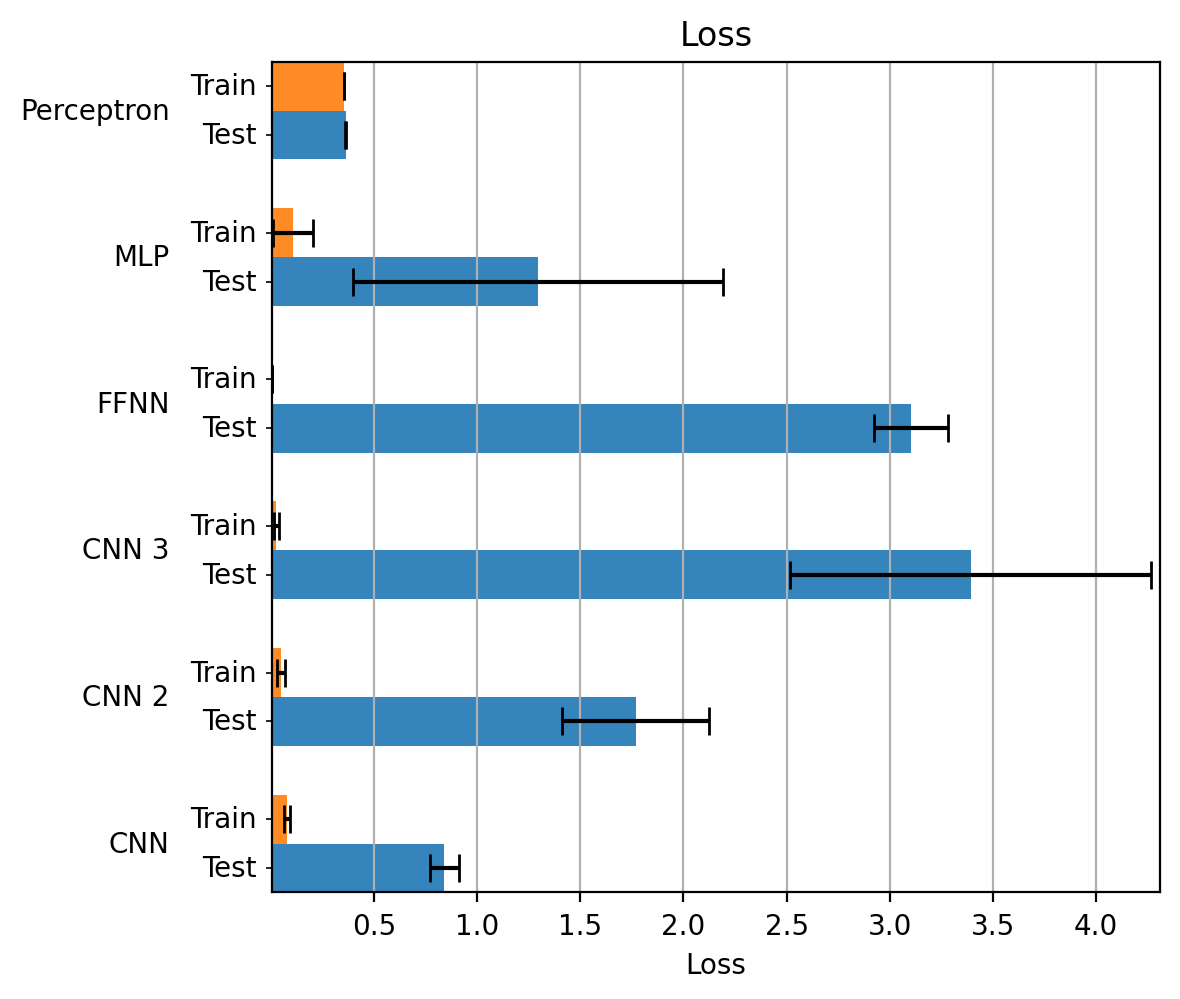
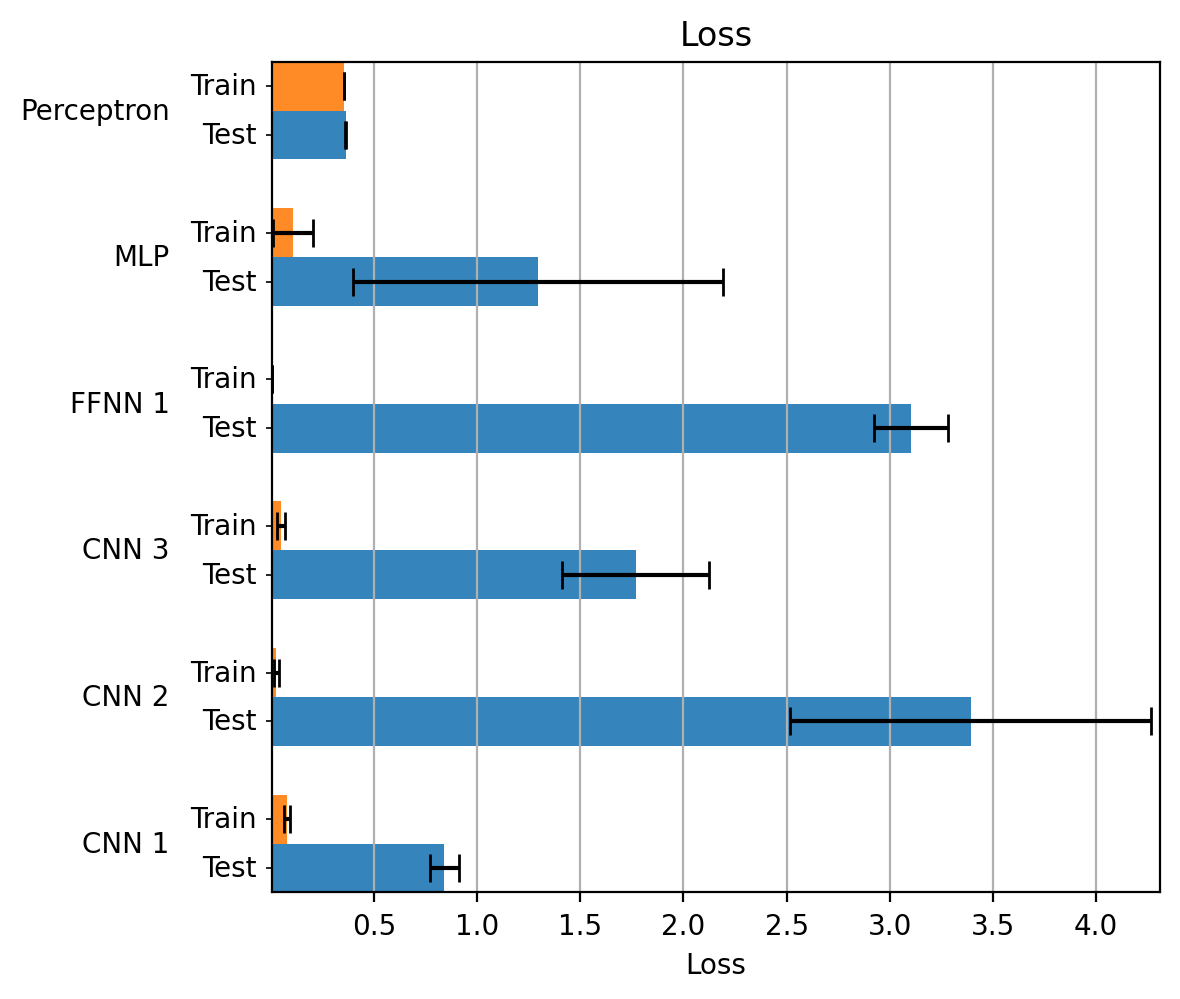
modified cnn names and relative results and plots

diff --git a/bioinformatics_project/models/model_builder_sequence.py b/bioinformatics_project/models/model_builder_sequence.py
@@ -16,7 +16,7 @@ class ModelBuilderSequence:
         return {
             PERCEPTRON_SEQUENCE: self.create_perceptron,
             MLP_SEQUENCE: self.create_mlp,
-            FFNN_SEQUENCE: self.create_ffnn,
+            FFNN_1_SEQUENCE: self.create_1_ffnn,
             CNN: self.create_cnn,
             CNN_2: self.create_cnn_2,
             CNN_3: self.create_cnn_3
@@ -60,7 +60,7 @@ class ModelBuilderSequence:
         )
         return mlp
 
-    def create_ffnn(self):
+    def create_1_ffnn(self):
         ffnn = Sequential([
             Input(shape=(200, 4)),
             Flatten(),
@@ -72,7 +72,7 @@ class ModelBuilderSequence:
             Dense(32, activation="relu"),
             Dense(16, activation="relu"),
             Dense(1, activation="sigmoid")
-        ], FFNN_SEQUENCE)
+        ], FFNN_1_SEQUENCE)
 
         ffnn.compile(
             optimizer="nadam",
@@ -118,44 +118,6 @@ class ModelBuilderSequence:
     def create_cnn_2(self):
         cnn = Sequential([
             Input(shape=(200, 4)),
-            Reshape((800, 1)),
-            Conv1D(64, kernel_size=5, activation="relu"),
-            BatchNormalization(),
-            Activation('relu'),
-            Conv1D(64, kernel_size=5, activation="relu"),
-            BatchNormalization(),
-            Activation('relu'),
-            Conv1D(64, kernel_size=5, activation="relu"),
-            BatchNormalization(),
-            Activation('relu'),
-            MaxPool1D(pool_size=2),
-            Conv1D(64, kernel_size=10, activation="relu"),
-            BatchNormalization(),
-            Activation('relu'),
-            MaxPool1D(pool_size=2),
-            Flatten(),
-            Dense(64, activation="relu"),
-            Dropout(0.1),
-            Dense(64, activation="relu"),
-            Dropout(0.1),
-            Dense(1, activation="sigmoid")
-        ], CNN_2)
-
-        cnn.compile(
-            optimizer=Nadam(learning_rate=0.002),
-            loss="binary_crossentropy",
-            metrics=[
-                "accuracy",
-                AUC(curve="ROC", name="auroc"),
-                AUC(curve="PR", name="auprc")
-            ]
-        )
-
-        return cnn
-
-    def create_cnn_3(self):
-        cnn = Sequential([
-            Input(shape=(200, 4)),
             Reshape((200, 4, 1)),
             Conv2D(128, kernel_size=(16, 4), activation="relu"),
             BatchNormalization(),
@@ -177,10 +139,48 @@ class ModelBuilderSequence:
             Dense(16, activation="relu"),
             Dropout(0.3),
             Dense(1, activation="sigmoid")
-        ], CNN_3)
+        ], CNN_2)
 
         cnn.compile(
             optimizer="nadam",
+            loss="binary_crossentropy",
+            metrics=[
+                "accuracy",
+                AUC(curve="ROC", name="auroc"),
+                AUC(curve="PR", name="auprc")
+            ]
+        )
+
+        return cnn
+
+    def create_cnn_3(self):
+        cnn = Sequential([
+            Input(shape=(200, 4)),
+            Reshape((800, 1)),
+            Conv1D(64, kernel_size=5, activation="relu"),
+            BatchNormalization(),
+            Activation('relu'),
+            Conv1D(64, kernel_size=5, activation="relu"),
+            BatchNormalization(),
+            Activation('relu'),
+            Conv1D(64, kernel_size=5, activation="relu"),
+            BatchNormalization(),
+            Activation('relu'),
+            MaxPool1D(pool_size=2),
+            Conv1D(64, kernel_size=10, activation="relu"),
+            BatchNormalization(),
+            Activation('relu'),
+            MaxPool1D(pool_size=2),
+            Flatten(),
+            Dense(64, activation="relu"),
+            Dropout(0.1),
+            Dense(64, activation="relu"),
+            Dropout(0.1),
+            Dense(1, activation="sigmoid")
+        ], CNN_3)
+
+        cnn.compile(
+            optimizer=Nadam(learning_rate=0.002),
             loss="binary_crossentropy",
             metrics=[
                 "accuracy",

diff --git a/bioinformatics_project/models/parameter_selector_sequence.py b/bioinformatics_project/models/parameter_selector_sequence.py
@@ -17,7 +17,7 @@ class ParameterSelectorSequence:
         return {
             PERCEPTRON_SEQUENCE: self.get_perceptron_parameters,
             MLP_SEQUENCE: self.get_mlp_parameters,
-            FFNN_SEQUENCE: self.get_ffnn_parameters,
+            FFNN_1_SEQUENCE: self.get_ffnn_1_parameters,
             CNN: self.get_cnn_parameters,
             CNN_2: self.get_cnn_2_parameters,
             CNN_3: self.get_cnn_3_parameters
@@ -49,7 +49,7 @@ class ParameterSelectorSequence:
             print(colored(f'Best {MLP_SEQUENCE} parameters for {region}: ' + str(data), 'green'))
         return best_parameters
 
-    def get_ffnn_parameters(self):
+    def get_ffnn_1_parameters(self):
         parameters = dict(
             epochs=100,
             batch_size=1024,
@@ -59,7 +59,7 @@ class ParameterSelectorSequence:
 
         best_parameters = {DataRetrieval.KEY_PROMOTERS: parameters, DataRetrieval.KEY_ENHANCERS: parameters}
         for region, data in best_parameters.items():
-            print(colored(f'Best {FFNN_SEQUENCE} parameters for {region}: ' + str(data), 'green'))
+            print(colored(f'Best {FFNN_1_SEQUENCE} parameters for {region}: ' + str(data), 'green'))
         return best_parameters
 
     def get_cnn_parameters(self):

diff --git a/bioinformatics_project/models/models_type.py b/bioinformatics_project/models/models_type.py
@@ -14,7 +14,7 @@ FFNN_7: str = 'FFNN_7'
 
 PERCEPTRON_SEQUENCE: str = 'Perceptron'
 MLP_SEQUENCE: str = 'MLP'
-FFNN_SEQUENCE: str = 'FFNN'
-CNN: str = 'CNN'
+FFNN_1_SEQUENCE: str = 'FFNN_1'
+CNN: str = 'CNN_1'
 CNN_2: str = 'CNN_2'
 CNN_3: str = 'CNN_3'
